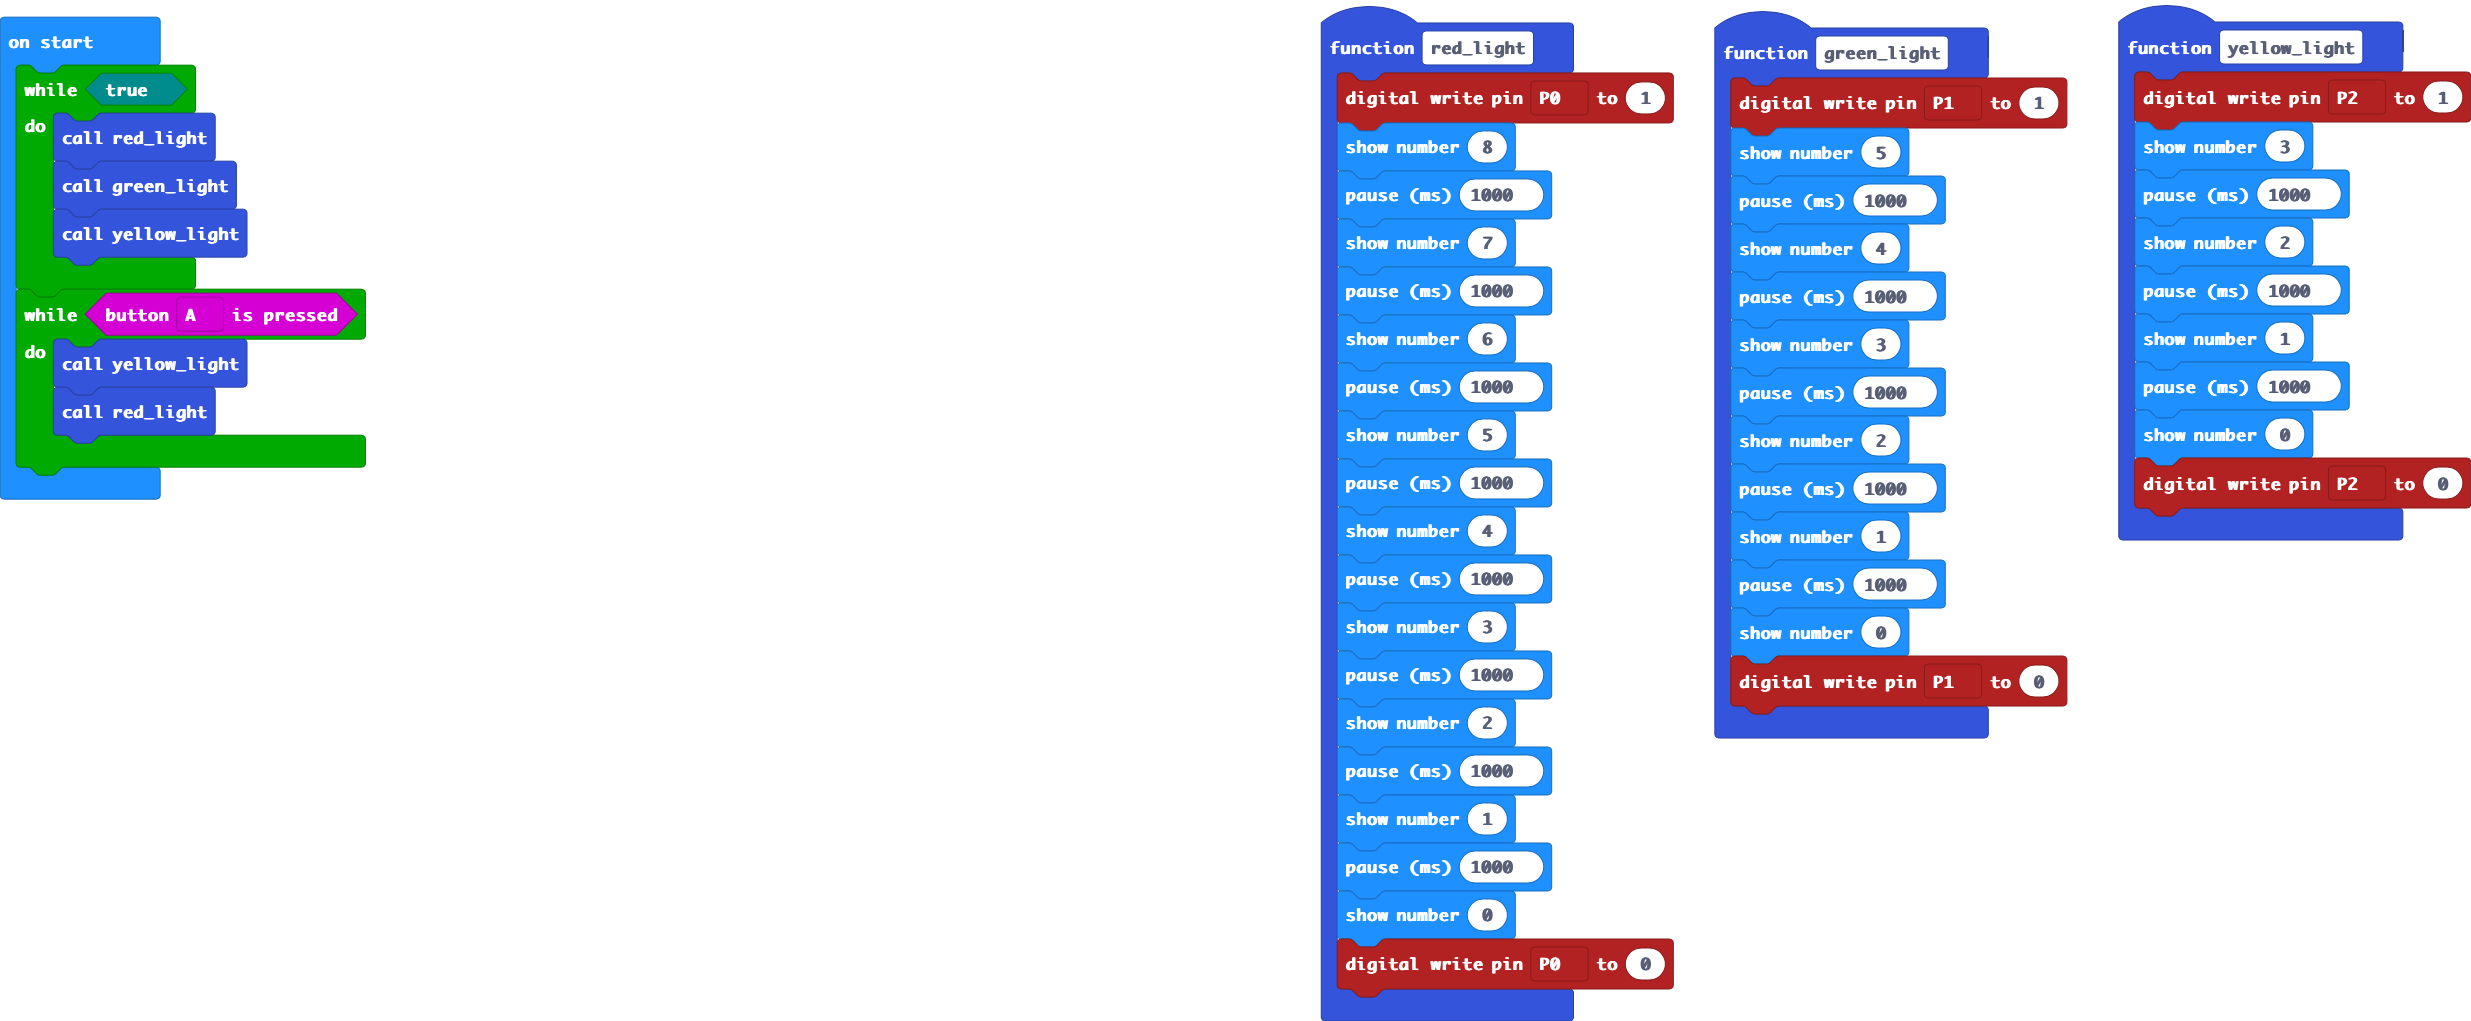
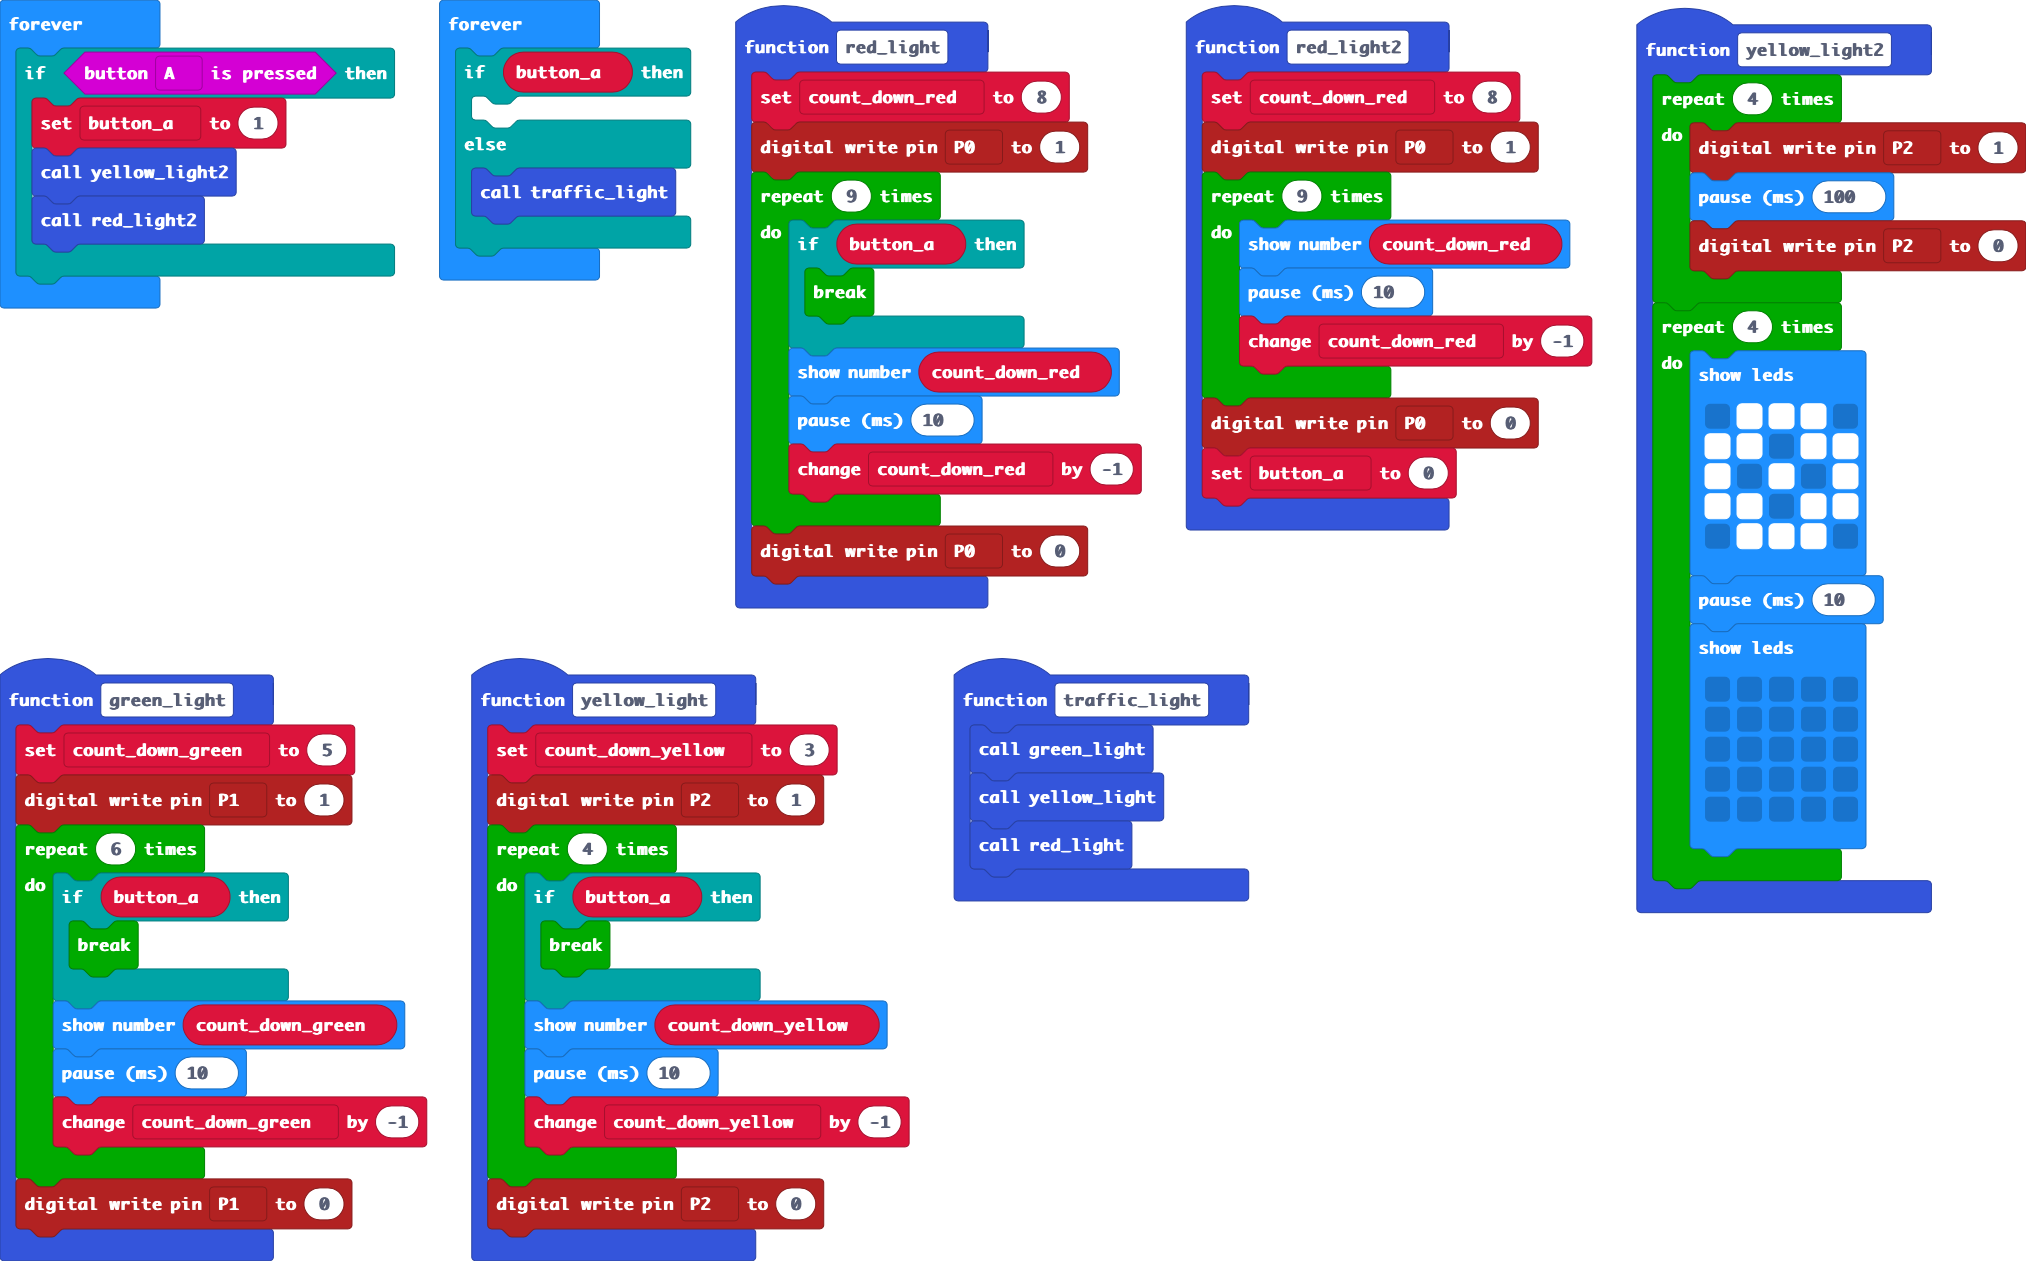
Update pxt.json, main.blocks, main.ts, main.py

diff --git a/main.ts b/main.ts
@@ -1,56 +1,97 @@
+let count_down_red = 0
+let button_a = 0
+let count_down_green = 0
+let count_down_yellow = 0
+function red_light2 () {
+    count_down_red = 8
+    pins.digitalWritePin(DigitalPin.P0, 1)
+    for (let index = 0; index < 9; index++) {
+        basic.showNumber(count_down_red)
+        basic.pause(10)
+        count_down_red += -1
+    }
+    pins.digitalWritePin(DigitalPin.P0, 0)
+    button_a = 0
+}
+function traffic_light () {
+    green_light()
+    yellow_light()
+    red_light()
+}
 function green_light () {
+    count_down_green = 5
     pins.digitalWritePin(DigitalPin.P1, 1)
-    basic.showNumber(5)
-    basic.pause(1000)
-    basic.showNumber(4)
-    basic.pause(1000)
-    basic.showNumber(3)
-    basic.pause(1000)
-    basic.showNumber(2)
-    basic.pause(1000)
-    basic.showNumber(1)
-    basic.pause(1000)
-    basic.showNumber(0)
+    for (let index = 0; index < 6; index++) {
+        if (button_a) {
+            break;
+        }
+        basic.showNumber(count_down_green)
+        basic.pause(10)
+        count_down_green += -1
+    }
     pins.digitalWritePin(DigitalPin.P1, 0)
 }
+function yellow_light2 () {
+    for (let index = 0; index < 4; index++) {
+        pins.digitalWritePin(DigitalPin.P2, 1)
+        basic.pause(100)
+        pins.digitalWritePin(DigitalPin.P2, 0)
+    }
+    for (let index = 0; index < 4; index++) {
+        basic.showLeds(`
+            . # # # .
+            # # . # #
+            # . # . #
+            # # . # #
+            . # # # .
+            `)
+        basic.pause(10)
+        basic.showLeds(`
+            . . . . .
+            . . . . .
+            . . . . .
+            . . . . .
+            . . . . .
+            `)
+    }
+}
 function red_light () {
+    count_down_red = 8
     pins.digitalWritePin(DigitalPin.P0, 1)
-    basic.showNumber(8)
-    basic.pause(1000)
-    basic.showNumber(7)
-    basic.pause(1000)
-    basic.showNumber(6)
-    basic.pause(1000)
-    basic.showNumber(5)
-    basic.pause(1000)
-    basic.showNumber(4)
-    basic.pause(1000)
-    basic.showNumber(3)
-    basic.pause(1000)
-    basic.showNumber(2)
-    basic.pause(1000)
-    basic.showNumber(1)
-    basic.pause(1000)
-    basic.showNumber(0)
+    for (let index = 0; index < 9; index++) {
+        if (button_a) {
+            break;
+        }
+        basic.showNumber(count_down_red)
+        basic.pause(10)
+        count_down_red += -1
+    }
     pins.digitalWritePin(DigitalPin.P0, 0)
 }
 function yellow_light () {
+    count_down_yellow = 3
     pins.digitalWritePin(DigitalPin.P2, 1)
-    basic.showNumber(3)
-    basic.pause(1000)
-    basic.showNumber(2)
-    basic.pause(1000)
-    basic.showNumber(1)
-    basic.pause(1000)
-    basic.showNumber(0)
+    for (let index = 0; index < 4; index++) {
+        if (button_a) {
+            break;
+        }
+        basic.showNumber(count_down_yellow)
+        basic.pause(10)
+        count_down_yellow += -1
+    }
     pins.digitalWritePin(DigitalPin.P2, 0)
 }
-while (true) {
-    red_light()
-    green_light()
-    yellow_light()
-}
-while (input.buttonIsPressed(Button.A)) {
-    yellow_light()
-    red_light()
-}
+basic.forever(function () {
+    if (input.buttonIsPressed(Button.A)) {
+        button_a = 1
+        yellow_light2()
+        red_light2()
+    }
+})
+basic.forever(function () {
+    if (button_a) {
+    	
+    } else {
+        traffic_light()
+    }
+})

diff --git a/main.py b/main.py
@@ -1,80 +1,75 @@
-def green_light():
-    pins.digital_write_pin(DigitalPin.P1, 1)
-    basic.show_number(5)
-    basic.pause(1000)
-    basic.show_number(4)
-    basic.pause(1000)
-    basic.show_number(3)
-    basic.pause(1000)
-    basic.show_number(2)
-    basic.pause(1000)
-    basic.show_number(1)
-    basic.pause(1000)
-    basic.show_number(0)
-    pins.digital_write_pin(DigitalPin.P1, 0)
-
-def on_button_pressed_a():
-    pins.digital_write_pin(DigitalPin.P2, 0)
-    basic.show_number(3)
-    basic.pause(1000)
-    basic.show_number(2)
-    basic.pause(1000)
-    basic.show_number(1)
-    basic.pause(1000)
-    basic.show_number(0)
-    pins.digital_write_pin(DigitalPin.P2, 0)
+count_down_red = 0
+button_a = 0
+count_down_green = 0
+count_down_yellow = 0
+def red_light2():
+    global count_down_red, button_a
+    count_down_red = 8
     pins.digital_write_pin(DigitalPin.P0, 1)
-    basic.show_number(8)
-    basic.pause(1000)
-    basic.show_number(7)
-    basic.pause(1000)
-    basic.show_number(6)
-    basic.pause(1000)
-    basic.show_number(5)
-    basic.pause(1000)
-    basic.show_number(4)
-    basic.pause(1000)
-    basic.show_number(3)
-    basic.pause(1000)
-    basic.show_number(2)
-    basic.pause(1000)
-    basic.show_number(1)
-    basic.pause(1000)
-    basic.show_number(0)
+    for index in range(9):
+        basic.show_number(count_down_red)
+        basic.pause(10)
+        count_down_red += -1
     pins.digital_write_pin(DigitalPin.P0, 0)
-input.on_button_pressed(Button.A, on_button_pressed_a)
-
+    button_a = 0
+def traffic_light():
+    green_light()
+    yellow_light()
+    red_light()
+def green_light():
+    global count_down_green
+    count_down_green = 5
+    pins.digital_write_pin(DigitalPin.P1, 1)
+    for index2 in range(6):
+        if button_a:
+            break
+        basic.show_number(count_down_green)
+        basic.pause(10)
+        count_down_green += -1
+    pins.digital_write_pin(DigitalPin.P1, 0)
+def yellow_light2():
+    global count_down_yellow
+    count_down_yellow = 3
+    pins.digital_write_pin(DigitalPin.P2, 1)
+    for index3 in range(4):
+        basic.show_number(count_down_yellow)
+        basic.pause(10)
+        count_down_yellow += -1
+    pins.digital_write_pin(DigitalPin.P2, 0)
 def red_light():
+    global count_down_red
+    count_down_red = 8
     pins.digital_write_pin(DigitalPin.P0, 1)
-    basic.show_number(8)
-    basic.pause(1000)
-    basic.show_number(7)
-    basic.pause(1000)
-    basic.show_number(6)
-    basic.pause(1000)
-    basic.show_number(5)
-    basic.pause(1000)
-    basic.show_number(4)
-    basic.pause(1000)
-    basic.show_number(3)
-    basic.pause(1000)
-    basic.show_number(2)
-    basic.pause(1000)
-    basic.show_number(1)
-    basic.pause(1000)
-    basic.show_number(0)
+    for index4 in range(9):
+        if button_a:
+            break
+        basic.show_number(count_down_red)
+        basic.pause(10)
+        count_down_red += -1
     pins.digital_write_pin(DigitalPin.P0, 0)
 def yellow_light():
+    global count_down_yellow
+    count_down_yellow = 3
     pins.digital_write_pin(DigitalPin.P2, 1)
-    basic.show_number(3)
-    basic.pause(1000)
-    basic.show_number(2)
-    basic.pause(1000)
-    basic.show_number(1)
-    basic.pause(1000)
-    basic.show_number(0)
+    for index5 in range(4):
+        if button_a:
+            break
+        basic.show_number(count_down_yellow)
+        basic.pause(10)
+        count_down_yellow += -1
     pins.digital_write_pin(DigitalPin.P2, 0)
 
 def on_forever():
-    pass
+    global button_a
+    if input.button_is_pressed(Button.A):
+        button_a = 1
+        yellow_light2()
+        red_light2()
 basic.forever(on_forever)
+
+def on_forever2():
+    if button_a:
+        pass
+    else:
+        traffic_light()
+basic.forever(on_forever2)
